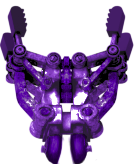
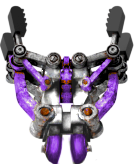
anti-jam-stack-inserter: build graphics from filter (shared parts) and stack inserter
Claude-Session: https://claude.ai/code/session_01E8JX8sudhsaXWem5reo4JA

diff --git a/mods/anti-jam-stack-inserter/README.md b/mods/anti-jam-stack-inserter/README.md
@@ -28,10 +28,16 @@ Requires Space Age (Factorio 2.1).
 
 ## Graphics
 
-Purple recolor of the Space Age stack inserter's sprites, matched to the 1.1 filter
-inserter: purple arm and platform, darker purple trim on the hand, bronze platform centre.
-Shadows and the frozen overlay are vanilla. If another mod has replaced the stack inserter's
-sprites, those are tinted purple instead.
+Built from the 1.1 filter inserter and the Space Age stack inserter. Parts the bulk, filter
+and stack inserters share come from the filter inserter; parts only the stack inserter has
+come from the stack inserter with its yellow trim recoloured to the filter inserter's purple.
+
+- Platform: the filter inserter's (all three share the same silhouette).
+- Icon: the filter inserter's legs and turret, the stack inserter's arm and claw head.
+- Base arm, hands and remnants: the stack inserter's, yellow trim made purple.
+- Shadows and the frozen overlay: vanilla stack inserter.
+
+If another mod has replaced the stack inserter's sprites, those are tinted purple instead.
 
 The conversion recipe icons follow Space Age's nutrient recipes: the input at the top left,
 the output slightly larger at the bottom right, in front.
